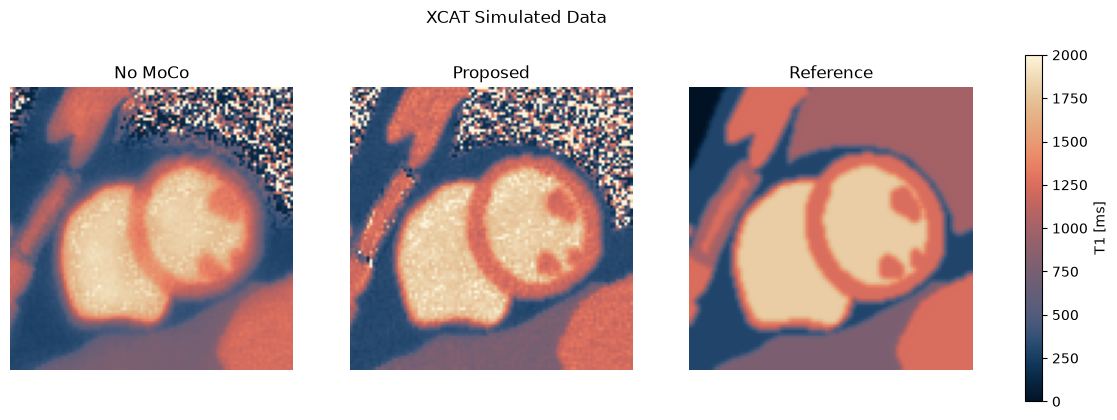
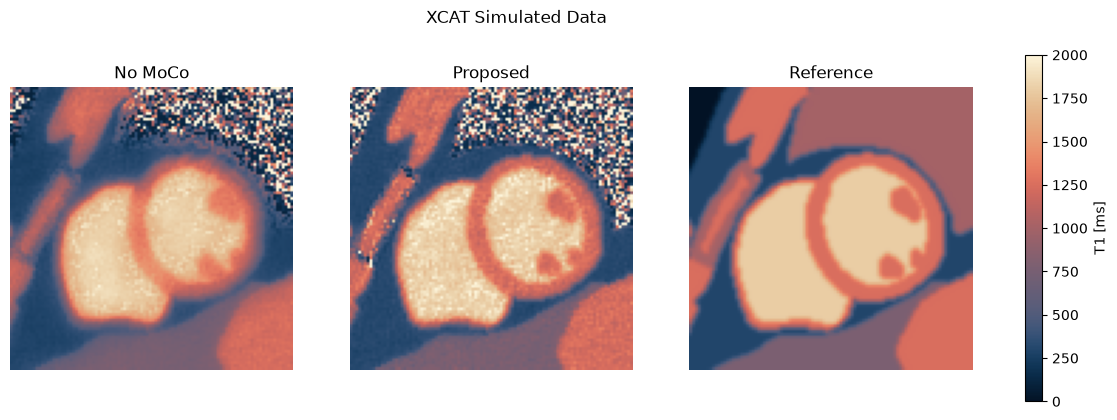
zenodo and results updated

Changed region(s): [[0.3957, 0.2167, 0.5783, 0.5262], [0.3044, 0.2167, 0.3348, 0.3405]]

diff --git a/examples/scripts/main.py b/examples/scripts/main.py
@@ -30,7 +30,7 @@ from utils.save import save_patient_results
 
 
 # data
-ZENODO_RECORD_ID = '23372515'
+ZENODO_RECORD_ID = '23388965'
 N_LINES_PER_DYNAMIC = 16  # k-space lines per dynamic image
 N_LINES_OVERLAP = 8  # lines shared by consecutive dynamics (sliding window)
 CSM_SMOOTHING_WIDTH = 15

diff --git a/README.md b/README.md
@@ -104,7 +104,7 @@ strongly recommended. The code falls back to the CPU if none is available.
 ## Usage
 
 Both entry points run the full pipeline on simulated k-space data $\mathbf{y}$, available on
-[Zenodo](https://zenodo.org/records/23372515) and downloaded automatically. The data were
+[Zenodo](https://zenodo.org/records/23388965) and downloaded automatically. The data were
 simulated to match the in-vivo acquisition. The anatomy and the cardiac motion come from the
 XCAT framework, and piecewise-constant parameter values are assigned to each tissue. The
 resulting dynamics are deformed with the XCAT motion and sampled with the real acquisition
